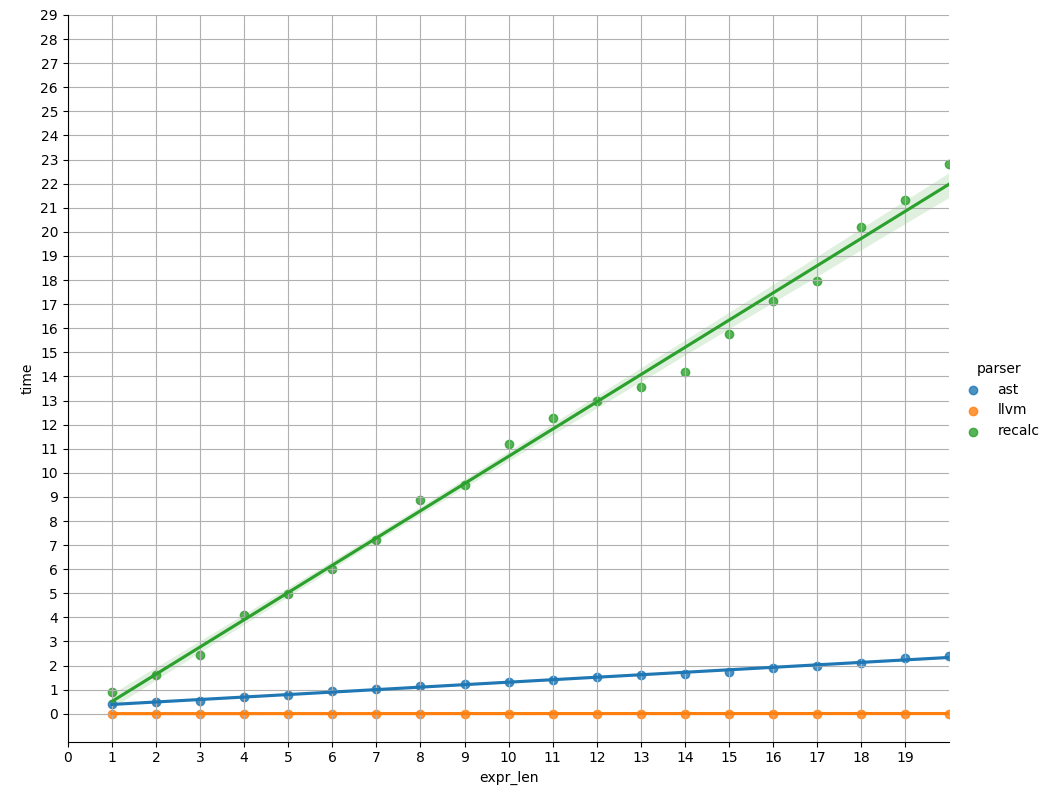
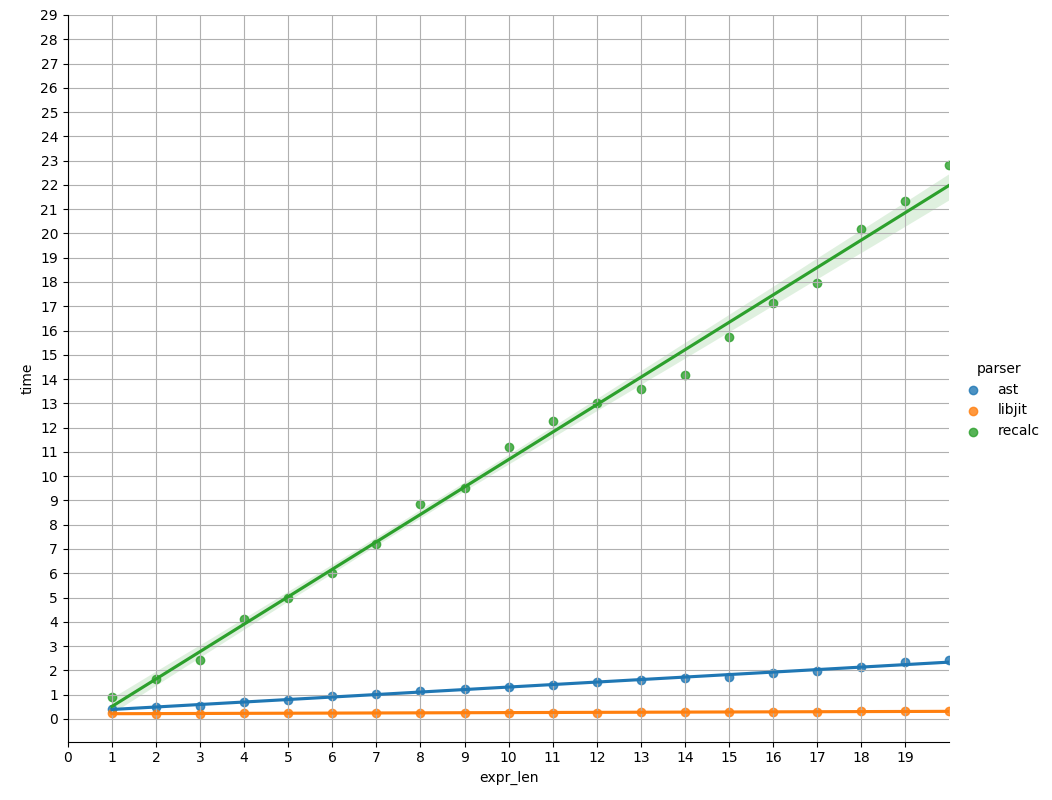
Update benchmark

Changed region(s): [[0.0304, 0.125, 0.9125, 0.9062], [0.943, 0.5, 0.9734, 0.5312]]

diff --git a/statements.h b/statements.h
@@ -1,50 +1,20 @@
-"1.1",
-"1.1*2.2",
-"1.1*2.2/3.3",
-"1.1*2.2/3.3*4.4",
-"1.1*2.2/3.3*4.4/5.5",
-"1.1*2.2/3.3*4.4/5.5*6.6",
-"1.1*2.2/3.3*4.4/5.5*6.6/7.7",
-"1.1*2.2/3.3*4.4/5.5*6.6/7.7*8.8",
-"1.1*2.2/3.3*4.4/5.5*6.6/7.7*8.8/9.9",
-"1.1*2.2/3.3*4.4/5.5*6.6/7.7*8.8/9.9*10.10",
-"1.1*2.2/3.3*4.4/5.5*6.6/7.7*8.8/9.9*10.10/11.11",
-"1.1*2.2/3.3*4.4/5.5*6.6/7.7*8.8/9.9*10.10/11.11*12.12",
-"1.1*2.2/3.3*4.4/5.5*6.6/7.7*8.8/9.9*10.10/11.11*12.12/13.13",
-"1.1*2.2/3.3*4.4/5.5*6.6/7.7*8.8/9.9*10.10/11.11*12.12/13.13*14.14",
-"1.1*2.2/3.3*4.4/5.5*6.6/7.7*8.8/9.9*10.10/11.11*12.12/13.13*14.14/15.15",
-"1.1*2.2/3.3*4.4/5.5*6.6/7.7*8.8/9.9*10.10/11.11*12.12/13.13*14.14/15.15*16.16",
-"1.1*2.2/3.3*4.4/5.5*6.6/7.7*8.8/9.9*10.10/11.11*12.12/13.13*14.14/15.15*16.16/17.17",
-"1.1*2.2/3.3*4.4/5.5*6.6/7.7*8.8/9.9*10.10/11.11*12.12/13.13*14.14/15.15*16.16/17.17*18.18",
-"1.1*2.2/3.3*4.4/5.5*6.6/7.7*8.8/9.9*10.10/11.11*12.12/13.13*14.14/15.15*16.16/17.17*18.18/19.19",
-"1.1*2.2/3.3*4.4/5.5*6.6/7.7*8.8/9.9*10.10/11.11*12.12/13.13*14.14/15.15*16.16/17.17*18.18/19.19*20.20",
-"1.1*2.2/3.3*4.4/5.5*6.6/7.7*8.8/9.9*10.10/11.11*12.12/13.13*14.14/15.15*16.16/17.17*18.18/19.19*20.20/21.21",
-"1.1*2.2/3.3*4.4/5.5*6.6/7.7*8.8/9.9*10.10/11.11*12.12/13.13*14.14/15.15*16.16/17.17*18.18/19.19*20.20/21.21*22.22",
-"1.1*2.2/3.3*4.4/5.5*6.6/7.7*8.8/9.9*10.10/11.11*12.12/13.13*14.14/15.15*16.16/17.17*18.18/19.19*20.20/21.21*22.22/23.23",
-"1.1*2.2/3.3*4.4/5.5*6.6/7.7*8.8/9.9*10.10/11.11*12.12/13.13*14.14/15.15*16.16/17.17*18.18/19.19*20.20/21.21*22.22/23.23*24.24",
-"1.1*2.2/3.3*4.4/5.5*6.6/7.7*8.8/9.9*10.10/11.11*12.12/13.13*14.14/15.15*16.16/17.17*18.18/19.19*20.20/21.21*22.22/23.23*24.24/25.25",
-"1.1*2.2/3.3*4.4/5.5*6.6/7.7*8.8/9.9*10.10/11.11*12.12/13.13*14.14/15.15*16.16/17.17*18.18/19.19*20.20/21.21*22.22/23.23*24.24/25.25*26.26",
-"1.1*2.2/3.3*4.4/5.5*6.6/7.7*8.8/9.9*10.10/11.11*12.12/13.13*14.14/15.15*16.16/17.17*18.18/19.19*20.20/21.21*22.22/23.23*24.24/25.25*26.26/27.27",
-"1.1*2.2/3.3*4.4/5.5*6.6/7.7*8.8/9.9*10.10/11.11*12.12/13.13*14.14/15.15*16.16/17.17*18.18/19.19*20.20/21.21*22.22/23.23*24.24/25.25*26.26/27.27*28.28",
-"1.1*2.2/3.3*4.4/5.5*6.6/7.7*8.8/9.9*10.10/11.11*12.12/13.13*14.14/15.15*16.16/17.17*18.18/19.19*20.20/21.21*22.22/23.23*24.24/25.25*26.26/27.27*28.28/29.29",
-"1.1*2.2/3.3*4.4/5.5*6.6/7.7*8.8/9.9*10.10/11.11*12.12/13.13*14.14/15.15*16.16/17.17*18.18/19.19*20.20/21.21*22.22/23.23*24.24/25.25*26.26/27.27*28.28/29.29*30.30",
-"1.1*2.2/3.3*4.4/5.5*6.6/7.7*8.8/9.9*10.10/11.11*12.12/13.13*14.14/15.15*16.16/17.17*18.18/19.19*20.20/21.21*22.22/23.23*24.24/25.25*26.26/27.27*28.28/29.29*30.30/31.31",
-"1.1*2.2/3.3*4.4/5.5*6.6/7.7*8.8/9.9*10.10/11.11*12.12/13.13*14.14/15.15*16.16/17.17*18.18/19.19*20.20/21.21*22.22/23.23*24.24/25.25*26.26/27.27*28.28/29.29*30.30/31.31*32.32",
-"1.1*2.2/3.3*4.4/5.5*6.6/7.7*8.8/9.9*10.10/11.11*12.12/13.13*14.14/15.15*16.16/17.17*18.18/19.19*20.20/21.21*22.22/23.23*24.24/25.25*26.26/27.27*28.28/29.29*30.30/31.31*32.32/33.33",
-"1.1*2.2/3.3*4.4/5.5*6.6/7.7*8.8/9.9*10.10/11.11*12.12/13.13*14.14/15.15*16.16/17.17*18.18/19.19*20.20/21.21*22.22/23.23*24.24/25.25*26.26/27.27*28.28/29.29*30.30/31.31*32.32/33.33*34.34",
-"1.1*2.2/3.3*4.4/5.5*6.6/7.7*8.8/9.9*10.10/11.11*12.12/13.13*14.14/15.15*16.16/17.17*18.18/19.19*20.20/21.21*22.22/23.23*24.24/25.25*26.26/27.27*28.28/29.29*30.30/31.31*32.32/33.33*34.34/35.35",
-"1.1*2.2/3.3*4.4/5.5*6.6/7.7*8.8/9.9*10.10/11.11*12.12/13.13*14.14/15.15*16.16/17.17*18.18/19.19*20.20/21.21*22.22/23.23*24.24/25.25*26.26/27.27*28.28/29.29*30.30/31.31*32.32/33.33*34.34/35.35*36.36",
-"1.1*2.2/3.3*4.4/5.5*6.6/7.7*8.8/9.9*10.10/11.11*12.12/13.13*14.14/15.15*16.16/17.17*18.18/19.19*20.20/21.21*22.22/23.23*24.24/25.25*26.26/27.27*28.28/29.29*30.30/31.31*32.32/33.33*34.34/35.35*36.36/37.37",
-"1.1*2.2/3.3*4.4/5.5*6.6/7.7*8.8/9.9*10.10/11.11*12.12/13.13*14.14/15.15*16.16/17.17*18.18/19.19*20.20/21.21*22.22/23.23*24.24/25.25*26.26/27.27*28.28/29.29*30.30/31.31*32.32/33.33*34.34/35.35*36.36/37.37*38.38",
-"1.1*2.2/3.3*4.4/5.5*6.6/7.7*8.8/9.9*10.10/11.11*12.12/13.13*14.14/15.15*16.16/17.17*18.18/19.19*20.20/21.21*22.22/23.23*24.24/25.25*26.26/27.27*28.28/29.29*30.30/31.31*32.32/33.33*34.34/35.35*36.36/37.37*38.38/39.39",
-"1.1*2.2/3.3*4.4/5.5*6.6/7.7*8.8/9.9*10.10/11.11*12.12/13.13*14.14/15.15*16.16/17.17*18.18/19.19*20.20/21.21*22.22/23.23*24.24/25.25*26.26/27.27*28.28/29.29*30.30/31.31*32.32/33.33*34.34/35.35*36.36/37.37*38.38/39.39*40.40",
-"1.1*2.2/3.3*4.4/5.5*6.6/7.7*8.8/9.9*10.10/11.11*12.12/13.13*14.14/15.15*16.16/17.17*18.18/19.19*20.20/21.21*22.22/23.23*24.24/25.25*26.26/27.27*28.28/29.29*30.30/31.31*32.32/33.33*34.34/35.35*36.36/37.37*38.38/39.39*40.40/41.41",
-"1.1*2.2/3.3*4.4/5.5*6.6/7.7*8.8/9.9*10.10/11.11*12.12/13.13*14.14/15.15*16.16/17.17*18.18/19.19*20.20/21.21*22.22/23.23*24.24/25.25*26.26/27.27*28.28/29.29*30.30/31.31*32.32/33.33*34.34/35.35*36.36/37.37*38.38/39.39*40.40/41.41*42.42",
-"1.1*2.2/3.3*4.4/5.5*6.6/7.7*8.8/9.9*10.10/11.11*12.12/13.13*14.14/15.15*16.16/17.17*18.18/19.19*20.20/21.21*22.22/23.23*24.24/25.25*26.26/27.27*28.28/29.29*30.30/31.31*32.32/33.33*34.34/35.35*36.36/37.37*38.38/39.39*40.40/41.41*42.42/43.43",
-"1.1*2.2/3.3*4.4/5.5*6.6/7.7*8.8/9.9*10.10/11.11*12.12/13.13*14.14/15.15*16.16/17.17*18.18/19.19*20.20/21.21*22.22/23.23*24.24/25.25*26.26/27.27*28.28/29.29*30.30/31.31*32.32/33.33*34.34/35.35*36.36/37.37*38.38/39.39*40.40/41.41*42.42/43.43*44.44",
-"1.1*2.2/3.3*4.4/5.5*6.6/7.7*8.8/9.9*10.10/11.11*12.12/13.13*14.14/15.15*16.16/17.17*18.18/19.19*20.20/21.21*22.22/23.23*24.24/25.25*26.26/27.27*28.28/29.29*30.30/31.31*32.32/33.33*34.34/35.35*36.36/37.37*38.38/39.39*40.40/41.41*42.42/43.43*44.44/45.45",
-"1.1*2.2/3.3*4.4/5.5*6.6/7.7*8.8/9.9*10.10/11.11*12.12/13.13*14.14/15.15*16.16/17.17*18.18/19.19*20.20/21.21*22.22/23.23*24.24/25.25*26.26/27.27*28.28/29.29*30.30/31.31*32.32/33.33*34.34/35.35*36.36/37.37*38.38/39.39*40.40/41.41*42.42/43.43*44.44/45.45*46.46",
-"1.1*2.2/3.3*4.4/5.5*6.6/7.7*8.8/9.9*10.10/11.11*12.12/13.13*14.14/15.15*16.16/17.17*18.18/19.19*20.20/21.21*22.22/23.23*24.24/25.25*26.26/27.27*28.28/29.29*30.30/31.31*32.32/33.33*34.34/35.35*36.36/37.37*38.38/39.39*40.40/41.41*42.42/43.43*44.44/45.45*46.46/47.47",
-"1.1*2.2/3.3*4.4/5.5*6.6/7.7*8.8/9.9*10.10/11.11*12.12/13.13*14.14/15.15*16.16/17.17*18.18/19.19*20.20/21.21*22.22/23.23*24.24/25.25*26.26/27.27*28.28/29.29*30.30/31.31*32.32/33.33*34.34/35.35*36.36/37.37*38.38/39.39*40.40/41.41*42.42/43.43*44.44/45.45*46.46/47.47*48.48",
-"1.1*2.2/3.3*4.4/5.5*6.6/7.7*8.8/9.9*10.10/11.11*12.12/13.13*14.14/15.15*16.16/17.17*18.18/19.19*20.20/21.21*22.22/23.23*24.24/25.25*26.26/27.27*28.28/29.29*30.30/31.31*32.32/33.33*34.34/35.35*36.36/37.37*38.38/39.39*40.40/41.41*42.42/43.43*44.44/45.45*46.46/47.47*48.48/49.49",
-"1.1*2.2/3.3*4.4/5.5*6.6/7.7*8.8/9.9*10.10/11.11*12.12/13.13*14.14/15.15*16.16/17.17*18.18/19.19*20.20/21.21*22.22/23.23*24.24/25.25*26.26/27.27*28.28/29.29*30.30/31.31*32.32/33.33*34.34/35.35*36.36/37.37*38.38/39.39*40.40/41.41*42.42/43.43*44.44/45.45*46.46/47.47*48.48/49.49*50.50"
+"3.2",
+"3.2-x",
+"3.2-x/40",
+"3.2-x/(40-6.17)",
+"3.2-x/(40-6.17)+2",
+"3.2-x/(40-6.17)+(2*x)",
+"3.2-x/(40-6.17)+(2*x+1)",
+"3.2-x/(40-6.17)+((2*x+1)/4)",
+"3.2-x/(40-6.17)+((2*x+1)/4-7.7)",
+"3.2-x/(40-6.17)+((2*x+1)/4-7.7)*0.3",
+"3.2-x/(40-6.17)+((2*x+1)/4-7.7)*0.3-x",
+"3.2-x/(40-6.17)+((2*x+1)/4-7.7)*0.3-(x*4.1)",
+"3.2-x/(40-6.17)+((2*x+1)/4-7.7)*0.3-(x*4.1-7)",
+"3.2-x/(40-6.17)+((2*x+1)/4-7.7)*0.3-(x*4.1-7)/6",
+"3.2-x/(40-6.17)+((2*x+1)/4-7.7)*0.3-(x*4.1-7)/6+7",
+"3.2-x/(40-6.17)+((2*x+1)/4-7.7)*0.3-(x*4.1-7)/6+(7-x)",
+"3.2-x/(40-6.17)+((2*x+1)/4-7.7)*0.3-(x*4.1-7)/6+(7-x/6.1)",
+"3.2-x/(40-6.17)+((2*x+1)/4-7.7)*0.3-(x*4.1-7)/6+(7-x/(6.1-x))",
+"3.2-x/(40-6.17)+((2*x+1)/4-7.7)*0.3-(x*4.1-7)/6+(7-x/(6.1-(x-0.2)))",
+"3.2-x/(40-6.17)+((2*x+1)/4-7.7)*0.3-(x*4.1-7)/6+(7-x/(6.1-(x-0.2)*0.4))",

diff --git a/benchmark.py b/benchmark.py
@@ -16,9 +16,9 @@ def main():
     dataframe = pandas.read_csv(from_file)
     seaborn.lmplot(x='expr_len', y='time', hue="parser", data=dataframe,
                    truncate=True, height=8, aspect=1.2)
-    pyplot.xlim(0, 40)
-    pyplot.xticks(range(0, 40))
-    pyplot.yticks(range(0, 15))
+    pyplot.xlim(0, 20)
+    pyplot.xticks(range(0, 20))
+    pyplot.yticks(range(0, 30))
     # pyplot.yscale("log")
     pyplot.grid(True)
     # pyplot.show()

diff --git a/experiment.h b/experiment.h
@@ -1,5 +1,5 @@
-#define ATTEMPTS_PER_TEST 1
-#define MAX_STATEMENT_SIZE 40  // < 21
+#define ATTEMPTS_PER_TEST 2
+#define MAX_STATEMENT_SIZE 20  // < 21
 
 #define X_RANGE 1e7
 
